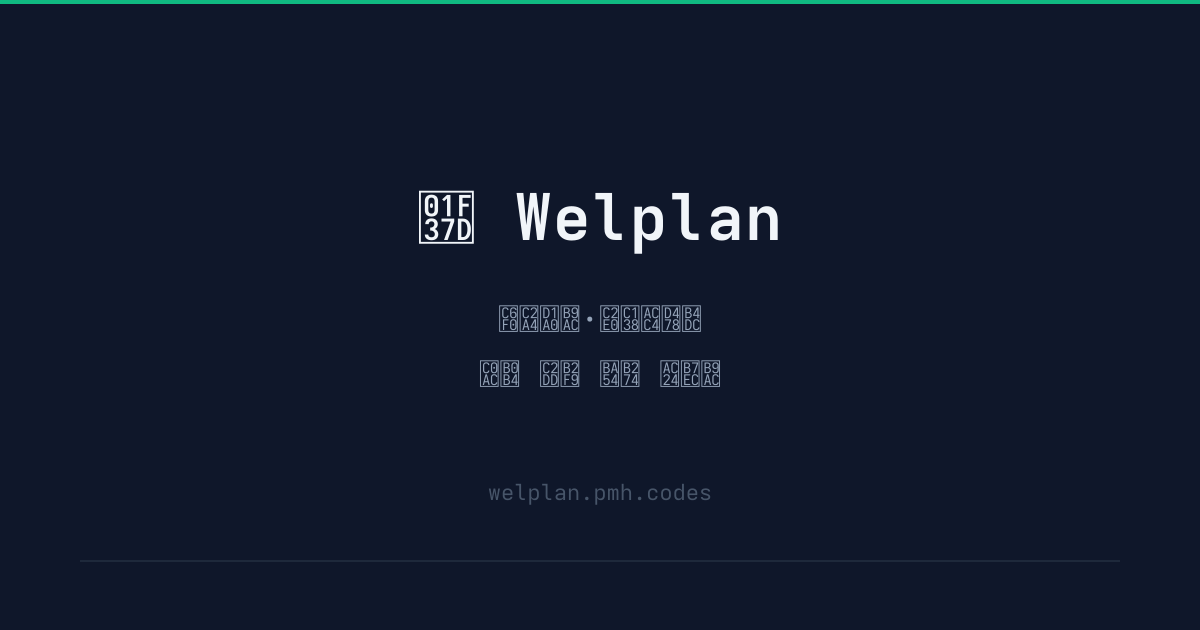
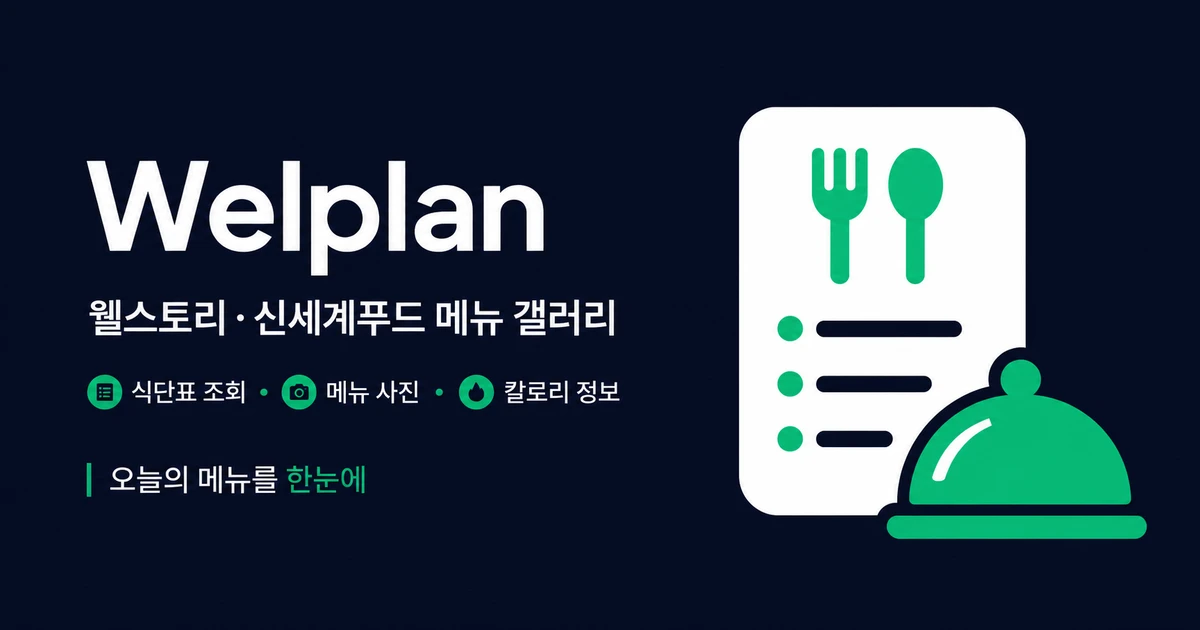
feat(webapp): improve pwa assets

diff --git a/webapp/vite.config.ts b/webapp/vite.config.ts
@@ -11,7 +11,6 @@ export default defineConfig({
       includeAssets: [
         'favicon.svg',
         'offline.html',
-        'og-image.png',
         'og-image.webp'
       ],
       includeManifestIcons: true,
@@ -25,10 +24,19 @@ export default defineConfig({
         display: 'standalone',
         display_override: ['window-controls-overlay', 'standalone', 'browser'],
         lang: 'ko-KR',
+        dir: 'ltr',
         start_url: '/',
         scope: '/',
         orientation: 'any',
         categories: ['food', 'productivity', 'utilities'],
+        prefer_related_applications: false,
+        launch_handler: {
+          client_mode: 'navigate-existing'
+        },
+        handle_links: 'preferred',
+        edge_side_panel: {
+          preferred_width: 420
+        },
         icons: [
           {
             src: '/manifest-icon-192.webp',
@@ -40,19 +48,13 @@ export default defineConfig({
             src: '/manifest-icon-512.webp',
             sizes: '512x512',
             type: 'image/webp',
-            purpose: 'any maskable'
-          },
-          {
-            src: '/manifest-icon-192.png',
-            sizes: '192x192',
-            type: 'image/png',
             purpose: 'any'
           },
           {
-            src: '/manifest-icon-512.png',
+            src: '/manifest-icon-maskable-512.webp',
             sizes: '512x512',
-            type: 'image/png',
-            purpose: 'any maskable'
+            type: 'image/webp',
+            purpose: 'maskable'
           },
           {
             src: '/favicon.svg',
@@ -97,8 +99,7 @@ export default defineConfig({
             description: '오늘의 메뉴 사진과 영양정보를 확인합니다.',
             url: '/',
             icons: [
-              { src: '/manifest-icon-192.webp', sizes: '192x192', type: 'image/webp' },
-              { src: '/manifest-icon-192.png', sizes: '192x192', type: 'image/png' }
+              { src: '/manifest-icon-192.webp', sizes: '192x192', type: 'image/webp' }
             ]
           },
           {
@@ -107,8 +108,7 @@ export default defineConfig({
             description: '매장 식사 메뉴와 영양정보를 엽니다.',
             url: '/takein',
             icons: [
-              { src: '/manifest-icon-192.webp', sizes: '192x192', type: 'image/webp' },
-              { src: '/manifest-icon-192.png', sizes: '192x192', type: 'image/png' }
+              { src: '/manifest-icon-192.webp', sizes: '192x192', type: 'image/webp' }
             ]
           },
           {
@@ -117,8 +117,7 @@ export default defineConfig({
             description: '포장 메뉴와 코인 계산 화면을 엽니다.',
             url: '/takeout',
             icons: [
-              { src: '/manifest-icon-192.webp', sizes: '192x192', type: 'image/webp' },
-              { src: '/manifest-icon-192.png', sizes: '192x192', type: 'image/png' }
+              { src: '/manifest-icon-192.webp', sizes: '192x192', type: 'image/webp' }
             ]
           },
           {
@@ -127,8 +126,7 @@ export default defineConfig({
             description: '조회할 식당을 검색하고 저장합니다.',
             url: '/restaurants',
             icons: [
-              { src: '/manifest-icon-192.webp', sizes: '192x192', type: 'image/webp' },
-              { src: '/manifest-icon-192.png', sizes: '192x192', type: 'image/png' }
+              { src: '/manifest-icon-192.webp', sizes: '192x192', type: 'image/webp' }
             ]
           }
         ]
@@ -139,11 +137,51 @@ export default defineConfig({
         ],
         modifyURLPrefix: {},
         globIgnores: ['**/node_modules/**', '**/workbox-*.js'],
+        ignoreURLParametersMatching: [/^utm_/, /^fbclid$/, /^gclid$/],
         cleanupOutdatedCaches: true,
         clientsClaim: true,
         skipWaiting: true,
         navigateFallback: '/offline.html',
+        navigateFallbackDenylist: [
+          /^\/api\//,
+          /^\/admin\//,
+          /^\/img\//,
+          /^\/proxy\//,
+          /^\/\.well-known\//,
+          /^\/openapi\.json$/,
+          /^\/robots\.txt$/,
+          /^\/sitemap\.xml$/,
+          /^\/rss(?:\/.*|\.xml)$/
+        ],
         runtimeCaching: [
+          {
+            urlPattern: ({ url }) => url.origin === self.location.origin && url.pathname.startsWith('/_app/immutable/'),
+            handler: 'CacheFirst',
+            options: {
+              cacheName: 'welplan-app-assets',
+              cacheableResponse: {
+                statuses: [0, 200]
+              },
+              expiration: {
+                maxEntries: 128,
+                maxAgeSeconds: 60 * 60 * 24 * 365
+              }
+            }
+          },
+          {
+            urlPattern: ({ url }) => url.origin === self.location.origin && /\.(?:svg|webp|png|json|txt|webmanifest)$/.test(url.pathname),
+            handler: 'StaleWhileRevalidate',
+            options: {
+              cacheName: 'welplan-static-assets',
+              cacheableResponse: {
+                statuses: [0, 200]
+              },
+              expiration: {
+                maxEntries: 64,
+                maxAgeSeconds: 60 * 60 * 24 * 30
+              }
+            }
+          },
           {
             urlPattern: ({ request }) => request.mode === 'navigate',
             handler: 'NetworkFirst',

diff --git a/webapp/src/app.html b/webapp/src/app.html
@@ -4,13 +4,20 @@
     <meta charset="utf-8" />
     <link rel="icon" type="image/svg+xml" href="%sveltekit.assets%/favicon.svg" />
     <meta name="viewport" content="width=device-width, initial-scale=1" />
+    <meta name="color-scheme" content="light dark" />
     <meta name="theme-color" content="#0f172a" />
+    <meta name="theme-color" media="(prefers-color-scheme: light)" content="#0f172a" />
+    <meta name="theme-color" media="(prefers-color-scheme: dark)" content="#020617" />
+    <meta name="application-name" content="Welplan" />
     <meta name="mobile-web-app-capable" content="yes" />
     <meta name="apple-mobile-web-app-capable" content="yes" />
     <meta name="apple-mobile-web-app-title" content="Welplan" />
     <meta name="apple-mobile-web-app-status-bar-style" content="black-translucent" />
+    <meta name="msapplication-TileColor" content="#0f172a" />
+    <meta name="format-detection" content="telephone=no" />
+    <link rel="mask-icon" href="%sveltekit.assets%/favicon.svg" color="#10b981" />
     <link rel="manifest" href="%sveltekit.assets%/manifest.webmanifest" />
-    <link rel="apple-touch-icon" href="%sveltekit.assets%/manifest-icon-192.png" />
+    <link rel="apple-touch-icon" href="%sveltekit.assets%/manifest-icon-192.webp" />
     <link rel="preconnect" href="https://fonts.googleapis.com" />
     <link rel="preconnect" href="https://fonts.gstatic.com" crossorigin />
     <link

diff --git a/webapp/src/routes/+layout.svelte b/webapp/src/routes/+layout.svelte
@@ -376,7 +376,6 @@
   const canonicalUrl = $derived(new URL(pageCanonicalPath ?? page.url.pathname, page.url.origin).toString())
   const rssUrl = $derived(new URL('/rss.xml', page.url.origin).toString())
   const ogImageWebpUrl = $derived(new URL('/og-image.webp', page.url.origin).toString())
-  const ogImagePngUrl = $derived(new URL('/og-image.png', page.url.origin).toString())
 </script>
 
 <svelte:head>
@@ -394,10 +393,6 @@
   <meta property="og:url" content={canonicalUrl} />
   <meta property="og:image" content={ogImageWebpUrl} />
   <meta property="og:image:type" content="image/webp" />
-  <meta property="og:image:width" content="1200" />
-  <meta property="og:image:height" content="630" />
-  <meta property="og:image" content={ogImagePngUrl} />
-  <meta property="og:image:type" content="image/png" />
   <meta property="og:image:width" content="1200" />
   <meta property="og:image:height" content="630" />
   <meta name="twitter:card" content="summary_large_image" />
@@ -478,7 +473,7 @@
     <header>
       <div class="header-inner">
         <a href="/" class="brand">
-          <Utensils class="brand-icon" aria-hidden="true" />
+          <img class="brand-icon" src="/favicon.svg" alt="" aria-hidden="true" />
           <div class="brand-text">
             <span class="brand-name">Welplan</span>
             <span class="brand-sub">웰스토리 · 신세계푸드</span>
@@ -751,7 +746,7 @@
     text-decoration: none;
     flex-shrink: 0;
   }
-  :global(.brand-icon) { width: 22px; height: 22px; color: #10b981; flex-shrink: 0; }
+  .brand-icon { width: 22px; height: 22px; flex-shrink: 0; }
   .brand-text { display: flex; flex-direction: column; gap: 0; }
   .brand-name { font-size: 1rem; font-weight: 700; color: #f8fafc; line-height: 1.2; letter-spacing: -0.01em; }
   .brand-sub { font-size: 0.7rem; color: #94a3b8; line-height: 1; }